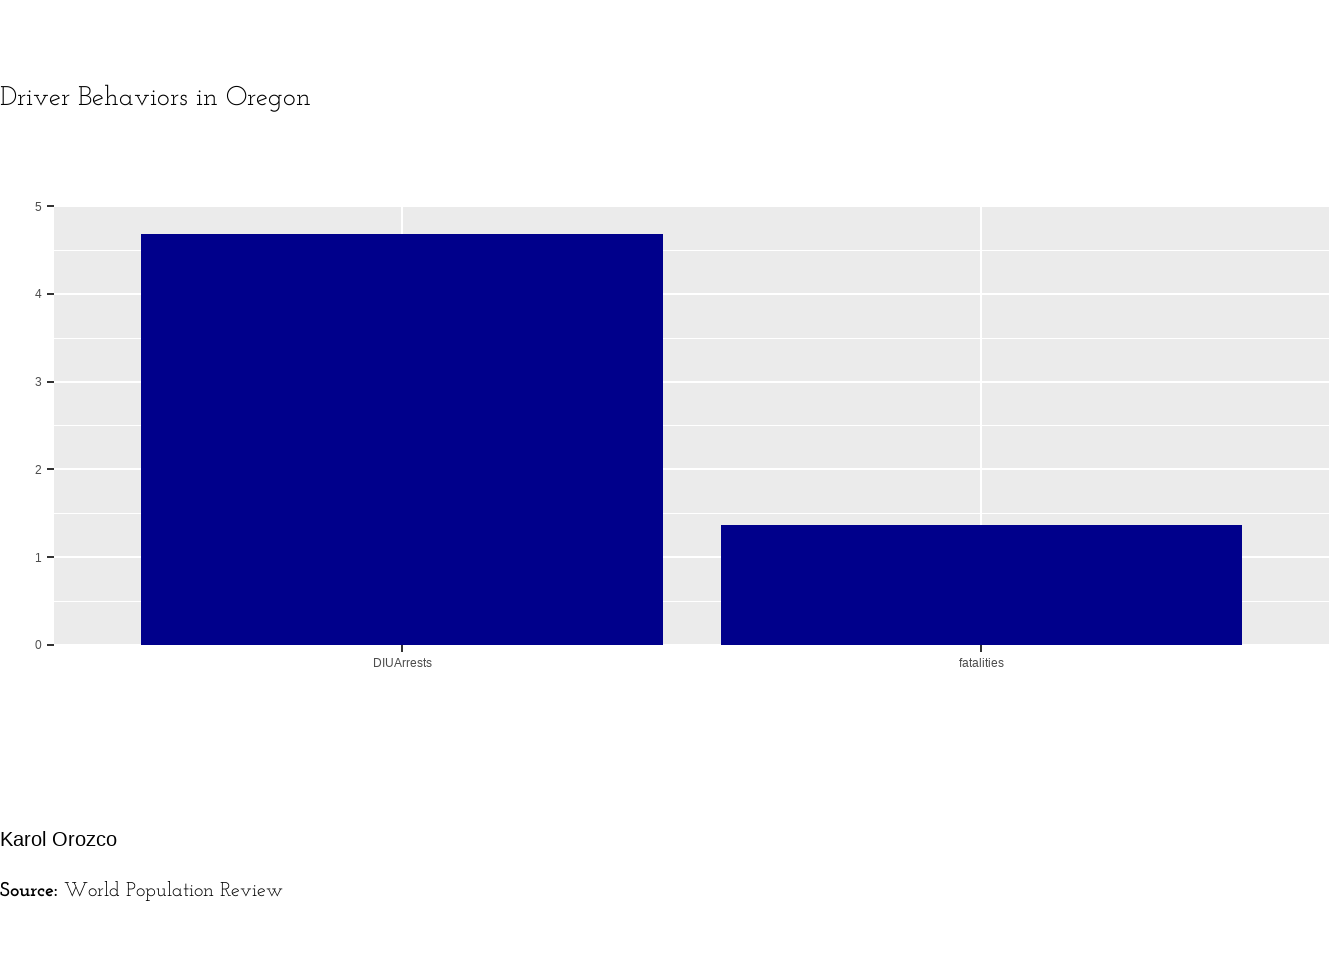
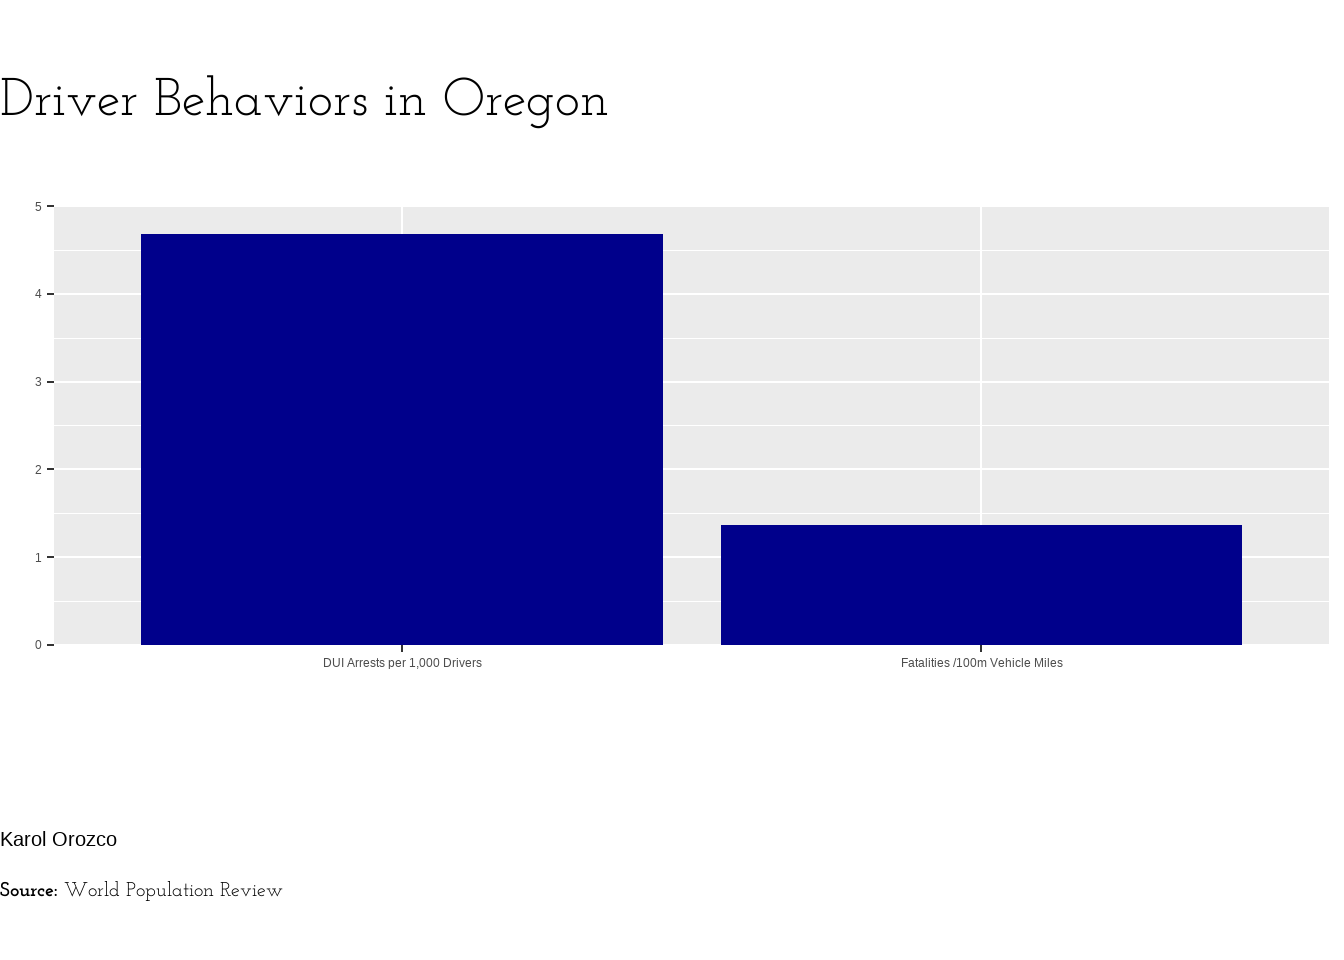
DFS

Changed region(s): [[0.0, 0.0625, 0.4688, 0.125], [0.6875, 0.6875, 0.7812, 0.7188], [0.25, 0.6875, 0.3438, 0.7188]]

diff --git a/docs/social/drivers/drivers.html b/docs/social/drivers/drivers.html
@@ -312,7 +312,7 @@ code span.wa { color: #60a0b0; font-weight: bold; font-style: italic; } /* Warni
 <span id="cb2-3"><a href="#cb2-3" aria-hidden="true" tabindex="-1"></a>           <span class="at">x =</span> <span class="fu">unit</span>(<span class="dv">0</span>, <span class="st">"npc"</span>), </span>
 <span id="cb2-4"><a href="#cb2-4" aria-hidden="true" tabindex="-1"></a>           <span class="at">hjust =</span> <span class="dv">0</span>, </span>
 <span id="cb2-5"><a href="#cb2-5" aria-hidden="true" tabindex="-1"></a>           <span class="at">vjust =</span> <span class="fl">0.5</span>,</span>
-<span id="cb2-6"><a href="#cb2-6" aria-hidden="true" tabindex="-1"></a>           <span class="at">gp =</span> <span class="fu">gpar</span>(<span class="at">fontsize =</span> <span class="dv">20</span>, <span class="at">fontfamily =</span> <span class="st">"josefin-slab"</span>))</span>
+<span id="cb2-6"><a href="#cb2-6" aria-hidden="true" tabindex="-1"></a>           <span class="at">gp =</span> <span class="fu">gpar</span>(<span class="at">fontsize =</span> <span class="dv">40</span>, <span class="at">fontfamily =</span> <span class="st">"josefin-slab"</span>))</span>
 <span id="cb2-7"><a href="#cb2-7" aria-hidden="true" tabindex="-1"></a>}</span>
 <span id="cb2-8"><a href="#cb2-8" aria-hidden="true" tabindex="-1"></a></span>
 <span id="cb2-9"><a href="#cb2-9" aria-hidden="true" tabindex="-1"></a>sourcer <span class="ot">&lt;-</span> <span class="cf">function</span>(source) {</span>
@@ -354,7 +354,7 @@ code span.wa { color: #60a0b0; font-weight: bold; font-style: italic; } /* Warni
 <span id="cb2-45"><a href="#cb2-45" aria-hidden="true" tabindex="-1"></a></span>
 <span id="cb2-46"><a href="#cb2-46" aria-hidden="true" tabindex="-1"></a></span>
 <span id="cb2-47"><a href="#cb2-47" aria-hidden="true" tabindex="-1"></a>plot <span class="ot">&lt;-</span> worst_drivers<span class="sc">%&gt;%</span></span>
-<span id="cb2-48"><a href="#cb2-48" aria-hidden="true" tabindex="-1"></a> <span class="fu">select</span>(state, DIUArrests, fatalities)<span class="sc">%&gt;%</span></span>
+<span id="cb2-48"><a href="#cb2-48" aria-hidden="true" tabindex="-1"></a> <span class="fu">select</span>(state, <span class="st">`</span><span class="at">DUI Arrests per 1,000 Drivers</span><span class="st">`</span> <span class="ot">=</span> DIUArrests, <span class="st">`</span><span class="at">Fatalities /100m Vehicle Miles</span><span class="st">`</span> <span class="ot">=</span>fatalities)<span class="sc">%&gt;%</span></span>
 <span id="cb2-49"><a href="#cb2-49" aria-hidden="true" tabindex="-1"></a>  <span class="fu">gather</span>(<span class="at">key =</span> <span class="st">"key"</span>, <span class="at">value =</span> <span class="st">"value"</span>, <span class="sc">-</span>state) <span class="sc">%&gt;%</span></span>
 <span id="cb2-50"><a href="#cb2-50" aria-hidden="true" tabindex="-1"></a>  <span class="fu">filter</span>(state <span class="sc">==</span> params<span class="sc">$</span>state) <span class="sc">%&gt;%</span></span>
 <span id="cb2-51"><a href="#cb2-51" aria-hidden="true" tabindex="-1"></a>  <span class="fu">ggplot</span>(<span class="fu">aes</span>(key, value)) <span class="sc">+</span></span>

diff --git a/docs/portfolio.html b/docs/portfolio.html
@@ -185,7 +185,7 @@ background: #000080;
 
 <div class="quarto-listing quarto-listing-container-grid" id="listing-listing">
 <div class="list grid quarto-listing-cols-3">
-<div class="g-col-1" data-index="0" data-listing-date-sort="1679122800000" data-listing-file-modified-sort="1679110622552" data-listing-reading-time-sort="3.18">
+<div class="g-col-1" data-index="0" data-listing-date-sort="1679122800000" data-listing-file-modified-sort="1679110927966" data-listing-reading-time-sort="3.23">
 <a href="./social/drivers/drivers.html" class="quarto-grid-link">
 <div class="quarto-grid-item card h-100 card-left">
 <p class="card-img-top">
